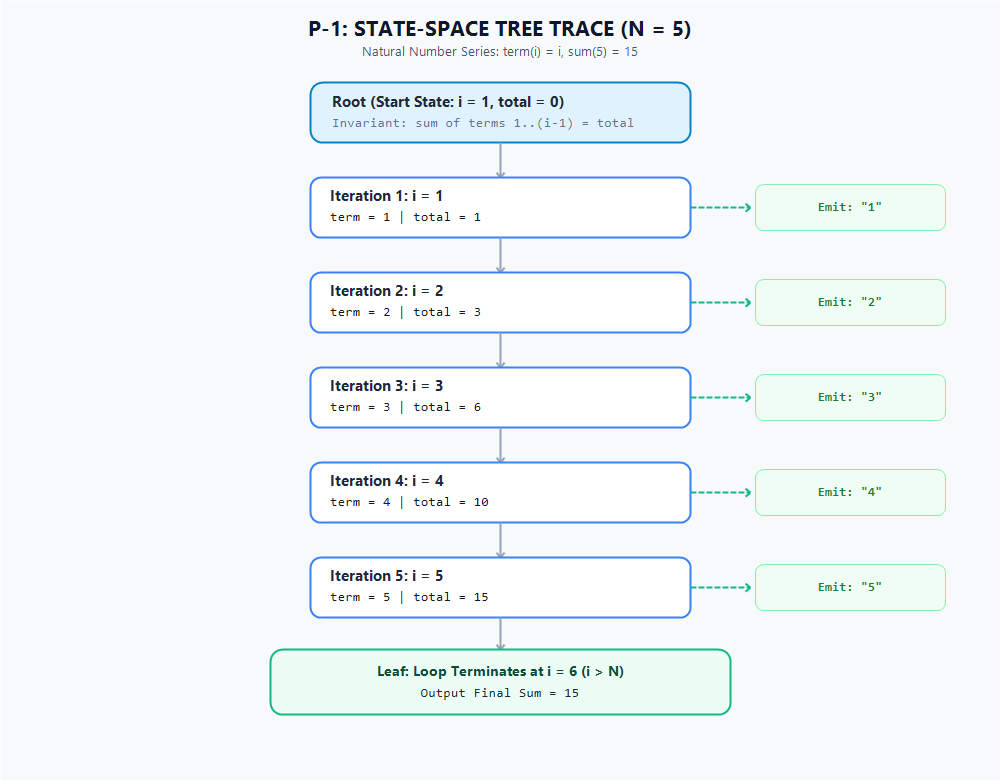
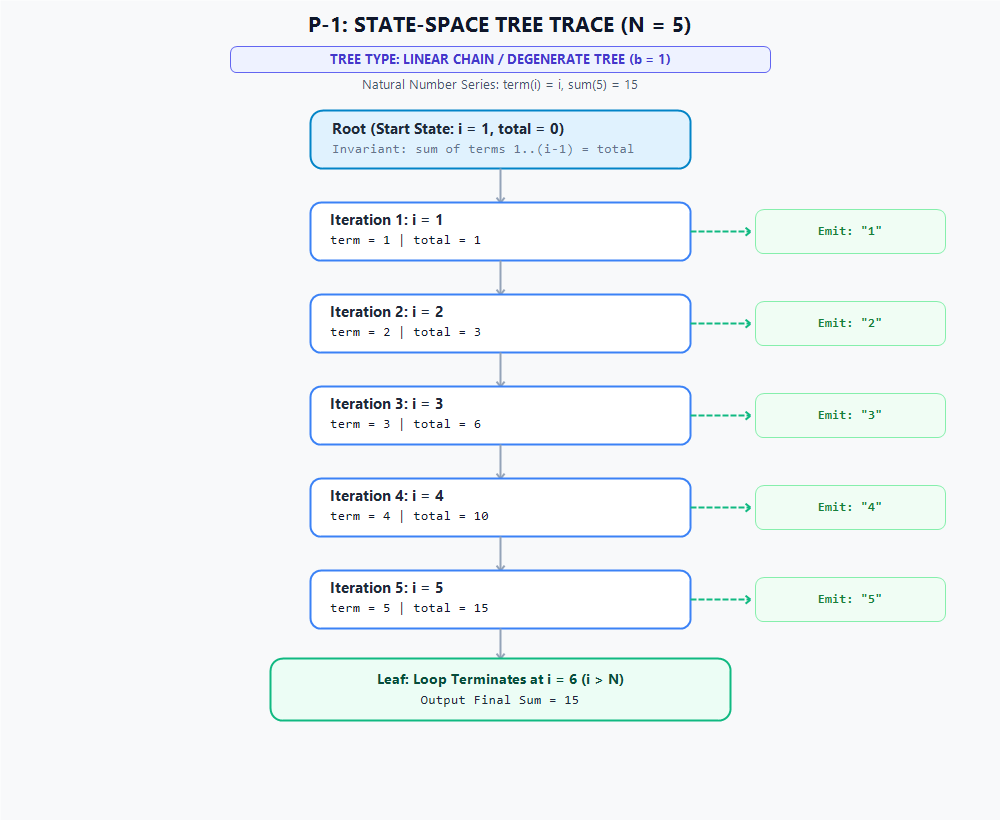
Label tree type on state-space tree diagrams and derivations across all solutions

diff --git a/Skills_Output/ProblemSkill_output/Solution Files/Repetitive Structures/Pattern Printing/P-17/P-17_java.java b/Skills_Output/ProblemSkill_output/Solution Files/Repetitive Structures/Pattern Printing/P-17/P-17_java.java
@@ -53,3 +53,4 @@ class Solution {
         System.out.print(out.toString());
     }
 }
+

diff --git a/Skills_Output/ProblemSkill_output/Solution Files/Repetitive Structures/Pattern Printing/P-17/P-17_python.py b/Skills_Output/ProblemSkill_output/Solution Files/Repetitive Structures/Pattern Printing/P-17/P-17_python.py
@@ -36,3 +36,4 @@ def solve() -> None:
 
 if __name__ == "__main__":
     solve()
+

diff --git a/chat.md b/chat.md
@@ -1517,3 +1517,26 @@ This document records all instructions, architectural decisions, and agent conve
    - Updated [`question bank.md#p-17`](Skills_Output/ProblemSkill_output/Problem%20Files/question%20bank.md#p-17) with the direct link to the solution folder and all three solution artifacts.
 5. **Git Synchronization**:
    - Committed and synchronized all changes with GitHub `origin/main`.
+
+
+---
+
+## Session 79: Mandate and Explicitly Label State-Space Tree Types Across All Solutions
+
+### User Request
+> "in the state space t ree diagram in every solutiuon please mention the type of state space tree also"
+
+### Actions Taken & Implementation Summary
+1. **Re-rendered All State-Space Tree Diagrams with Prominent Type Badges**:
+   - Re-rendered vector-smoothed PNG diagrams for all existing problem solutions featuring dedicated top badges and subtitles explicitly naming the tree architecture:
+     - [`P-1_state_space_tree.png`](Skills_Output/ProblemSkill_output/Solution%20Files/Repetitive%20Structures/Pattern%20Printing/P-1/P-1_state_space_tree.png): Labeled as **`TREE TYPE: LINEAR CHAIN / DEGENERATE TREE (b = 1)`**.
+     - [`P-2_state_space_tree.png`](Skills_Output/ProblemSkill_output/Solution%20Files/Repetitive%20Structures/Pattern%20Printing/P-2/P-2_state_space_tree.png): Labeled as **`TREE TYPE: LINEAR CHAIN / DEGENERATE TREE (b = 1)`**.
+     - [`P-3_state_space_tree.png`](Skills_Output/ProblemSkill_output/Solution%20Files/Repetitive%20Structures/Pattern%20Printing/P-3/P-3_state_space_tree.png): Labeled as **`TREE TYPE: LINEAR CHAIN / DEGENERATE TREE (b = 1)`**.
+     - [`P-17_state_space_tree.png`](Skills_Output/ProblemSkill_output/Solution%20Files/Repetitive%20Structures/Pattern%20Printing/P-17/P-17_state_space_tree.png): Labeled as **`TREE TYPE: HIERARCHICAL 2D COORDINATE TREE (NESTED LOOPS)`**.
+2. **Updated All Derivation Documents**:
+   - In [`P-1_derivation.md`](Skills_Output/ProblemSkill_output/Solution%20Files/Repetitive%20Structures/Pattern%20Printing/P-1/P-1_derivation.md), [`P-2_derivation.md`](Skills_Output/ProblemSkill_output/Solution%20Files/Repetitive%20Structures/Pattern%20Printing/P-2/P-2_derivation.md), and [`P-3_derivation.md`](Skills_Output/ProblemSkill_output/Solution%20Files/Repetitive%20Structures/Pattern%20Printing/P-3/P-3_derivation.md), added explicit **Tree Type**, **Branching Factor ($b = 1$)**, and **Topology** specifications directly above the embedded image diagram.
+   - In [`P-17_derivation.md`](Skills_Output/ProblemSkill_output/Solution%20Files/Repetitive%20Structures/Pattern%20Printing/P-17/P-17_derivation.md), specified **Tree Type: Hierarchical 2D Coordinate Tree (Nested Loops)**, variable branching factor from row $i$ to column children, and 2-level topology.
+3. **Updated Schema Standards**:
+   - In [`Solution formating.md`](Skills_Output/ProblemSkill_output/Solution%20Files/Solution%20formating.md): Mandated that all future solution state-space trees must explicitly declare their tree type both inside the diagram and in the Phase 2 markdown section.
+4. **Git Synchronization**:
+   - Committed and synchronized all changes with GitHub `origin/main`.

diff --git a/Skills_Output/ProblemSkill_output/Solution Files/Solution formating.md b/Skills_Output/ProblemSkill_output/Solution Files/Solution formating.md
@@ -81,6 +81,7 @@ Every derivation file must rigorously execute the phased steps defined in the ma
 ## 🌲 Phase 2: State-Space & Relationship Derivation
 1. **Relationship Mapping**: Dependencies between outer and inner loops.
 2. **State-Space Tree Diagram**: High-resolution graphical image diagram (`<Problem-ID>_state_space_tree.png`) representing state transitions, action branches, and termination leaf.
+   - **Explicit Tree Type**: Both the derivation document and the rendered graphical image diagram must explicitly declare the tree type (e.g. `Type 1: Linear Chain / Degenerate Tree (b = 1)` for single loops, `Type 2: Hierarchical 2D Coordinate Tree (Nested Loops)` for matrix/patterns, or `Type 3: Binary Decision Tree (b = 2)` for choice/backtracking).
    > [!IMPORTANT]
    > State-space trees must NEVER be text or ASCII art diagrams. They must be generated as graphical images (`.png`) and linked using Markdown image tags: `![<Problem-ID> State-Space Tree Trace](<Problem-ID>_state_space_tree.png)`.
 3. **Loop Bounds & Iteration Spaces**: Formal arithmetic intervals for every stepper/walker.

diff --git a/Skills_Output/ProblemSkill_output/Solution Files/Repetitive Structures/Pattern Printing/P-17/P-17_derivation.md b/Skills_Output/ProblemSkill_output/Solution Files/Repetitive Structures/Pattern Printing/P-17/P-17_derivation.md
@@ -69,6 +69,9 @@ $$\text{State} = (i, j)$$
   - Total Inner Iterations for row $i$: $i$
 
 ### 2. State-Space Tree Diagram (Trace for $N = 4$)
+- **Tree Type**: **Hierarchical 2D Coordinate Tree (Nested Loops)**
+- **Branching Factor**: Variable branching from parent row node $i$ to $i$ inner column children ($j \in [1, i]$).
+- **Topology**: Level 1 represents outer row steps ($i \in [1, N]$); Level 2 represents inner column leaf evaluations emitting values and row termination newlines.
 
 ![P-17 State-Space Tree Trace](P-17_state_space_tree.png)
 
@@ -130,3 +133,4 @@ For maximum constraint $N = 50$, total operations $\approx 1275$, executing in $
 ### 2. Space Complexity
 - **Auxiliary State Space**: The minimal state is tuple $(i, j)$ occupying $\mathcal{O}(1)$ auxiliary memory.
 - **Buffer Overhead**: $\mathcal{O}(N)$ temporary buffer per line (or $\mathcal{O}(1)$ streaming). Overall auxiliary space: $\mathcal{O}(1)$.
+

diff --git a/Skills_Output/ProblemSkill_output/Solution Files/Repetitive Structures/Pattern Printing/P-2/P-2_derivation.md b/Skills_Output/ProblemSkill_output/Solution Files/Repetitive Structures/Pattern Printing/P-2/P-2_derivation.md
@@ -63,6 +63,9 @@ $$\text{State} = (i, \text{total})$$
 - Term Generation Rule: $\text{term}_i = 2 \cdot i$
 
 ### 2. State-Space Tree Diagram (Trace for $n = 5$)
+- **Tree Type**: **Linear Chain / Degenerate State-Space Tree ($b = 1$)**
+- **Branching Factor**: Exactly 1 deterministic transition per step (no branching, decisions, or backtracking).
+- **Topology**: Vertical linear spine of depth $N$, where each node represents an iteration step emitting a term, culminating in a single termination leaf.
 
 ![P-2 State-Space Tree Trace](P-2_state_space_tree.png)
 

diff --git a/Skills_Output/ProblemSkill_output/Solution Files/Repetitive Structures/Pattern Printing/P-3/P-3_derivation.md b/Skills_Output/ProblemSkill_output/Solution Files/Repetitive Structures/Pattern Printing/P-3/P-3_derivation.md
@@ -63,6 +63,9 @@ $$\text{State} = (i, \text{total})$$
 - Term Generation Rule: $\text{term}_i = 2i - 1$
 
 ### 2. State-Space Tree Diagram (Trace for $n = 5$)
+- **Tree Type**: **Linear Chain / Degenerate State-Space Tree ($b = 1$)**
+- **Branching Factor**: Exactly 1 deterministic transition per step (no branching, decisions, or backtracking).
+- **Topology**: Vertical linear spine of depth $N$, where each node represents an iteration step emitting a term, culminating in a single termination leaf.
 
 ![P-3 State-Space Tree Trace](P-3_state_space_tree.png)
 

diff --git a/Skills_Output/ProblemSkill_output/Solution Files/Repetitive Structures/Pattern Printing/P-1/P-1_derivation.md b/Skills_Output/ProblemSkill_output/Solution Files/Repetitive Structures/Pattern Printing/P-1/P-1_derivation.md
@@ -62,6 +62,9 @@ $$\text{State} = (i, \text{total})$$
 - Total Iterations: $n - 1 + 1 = n$
 
 ### 2. State-Space Tree Diagram (Trace for $n = 5$)
+- **Tree Type**: **Linear Chain / Degenerate State-Space Tree ($b = 1$)**
+- **Branching Factor**: Exactly 1 deterministic transition per step (no branching, decisions, or backtracking).
+- **Topology**: Vertical linear spine of depth $N$, where each node represents an iteration step emitting a term, culminating in a single termination leaf.
 
 ![P-1 State-Space Tree Trace](P-1_state_space_tree.png)
 
